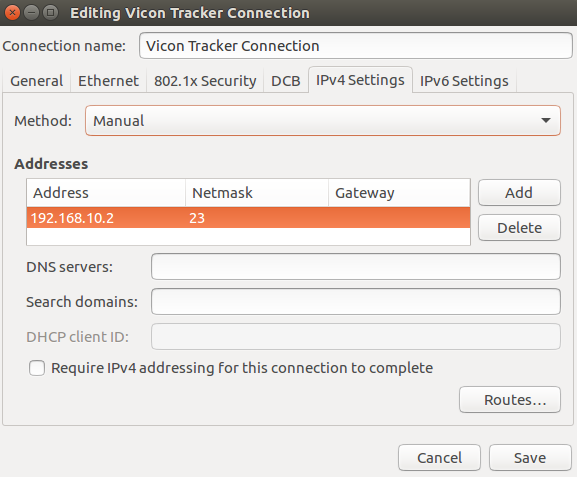
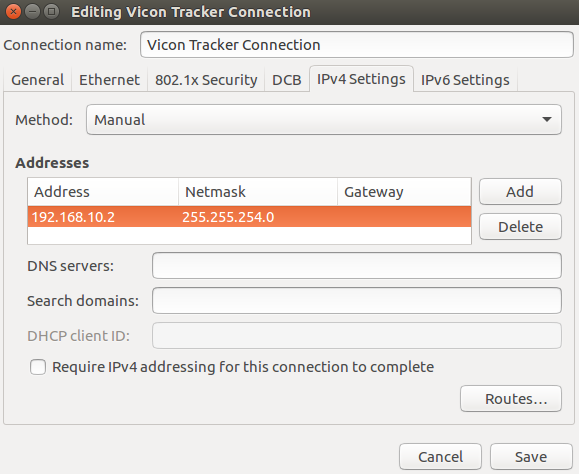
Updated documentation and connection_settings image

Changed region(s): [[0.0, 0.0, 0.9983, 1.0], [0.312, 0.384, 0.4679, 0.4726], [0.5615, 0.384, 0.7175, 0.443]]

diff --git a/README.md b/README.md
@@ -49,6 +49,8 @@ The Vicon software can be installed with:
 
 The next step is to properly set the connection to the Vicon Tracker PC. Currently, this PC has an IP address of 192.168.10.1 and is sending messages over subnet (with netmask) 255.255.254.0. Consequently, the user PC has to have an IP address of 192.168.10.x (1 < x < 255) and must reside in the same subnet of 255.255.254.0. Example settings in the standard ubuntu desktop environment are shown below:
 
+*When revising the settings, the GUI converted 255.255.254.0 to 23. This is completely normal and means that it is properly set up.*
+
 ![Connection Settings](/images/connection_settings.png)
 
 ## Robot workspace installation
